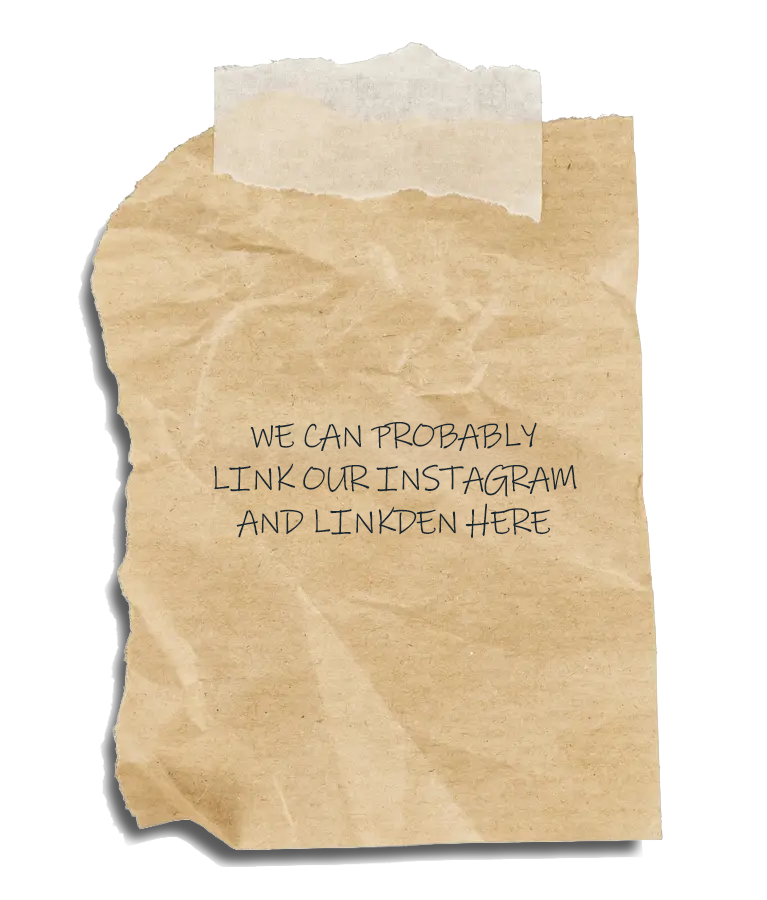
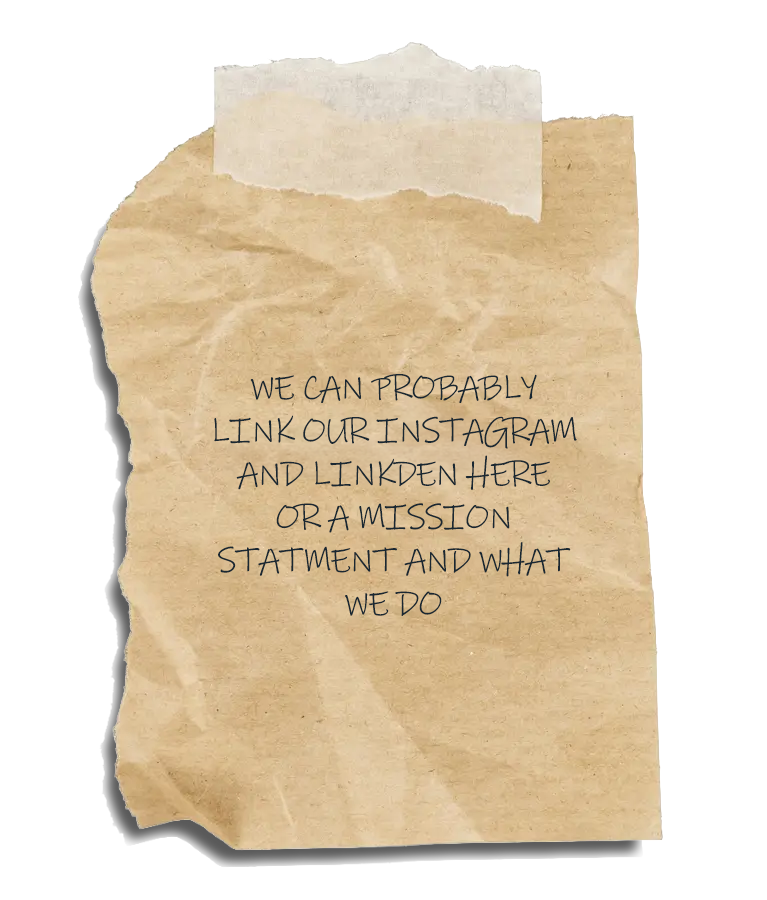
added zoom to overage imgs

Changed region(s): [[0.2699, 0.4044, 0.7497, 0.6844], [0.3299, 0.4044, 0.3898, 0.4356]]

diff --git a/css/base.css b/css/base.css
@@ -42,6 +42,15 @@ a {
 a:hover {
     text-decoration: underline; /* Simple underline on hover */
 }
+/* Hover zoom for overlay images */
+.overlay img {
+    transition: transform 0.25s ease, box-shadow 0.25s ease;
+}
+
+.overlay:hover img {
+    transform: scale(1.10);
+    box-shadow: 0 4px 12px rgba(0,0,0,0.25);
+}
 
 .sidebar-box img,
 .main-content-box img {
